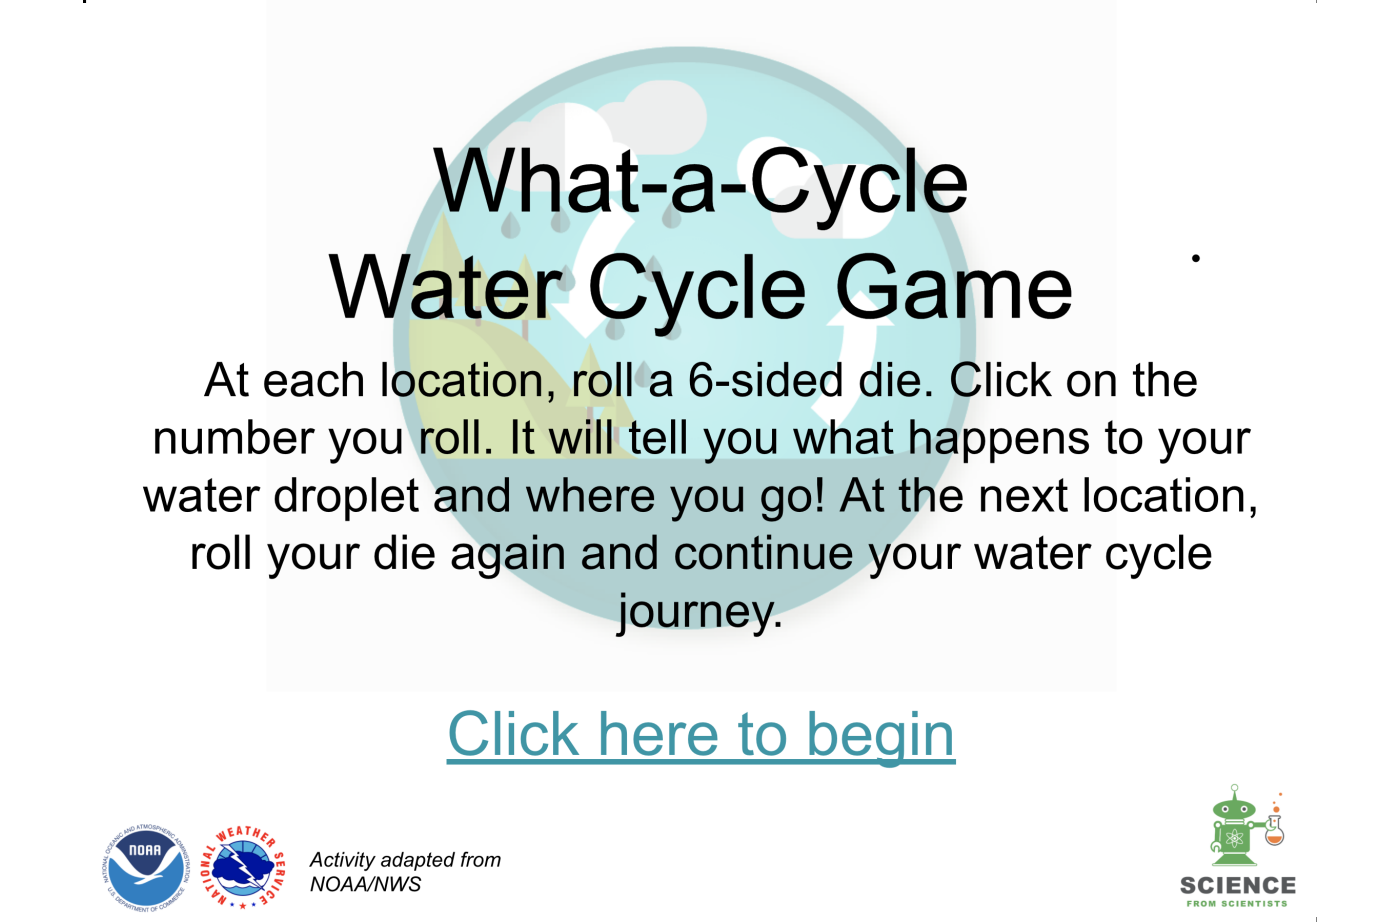
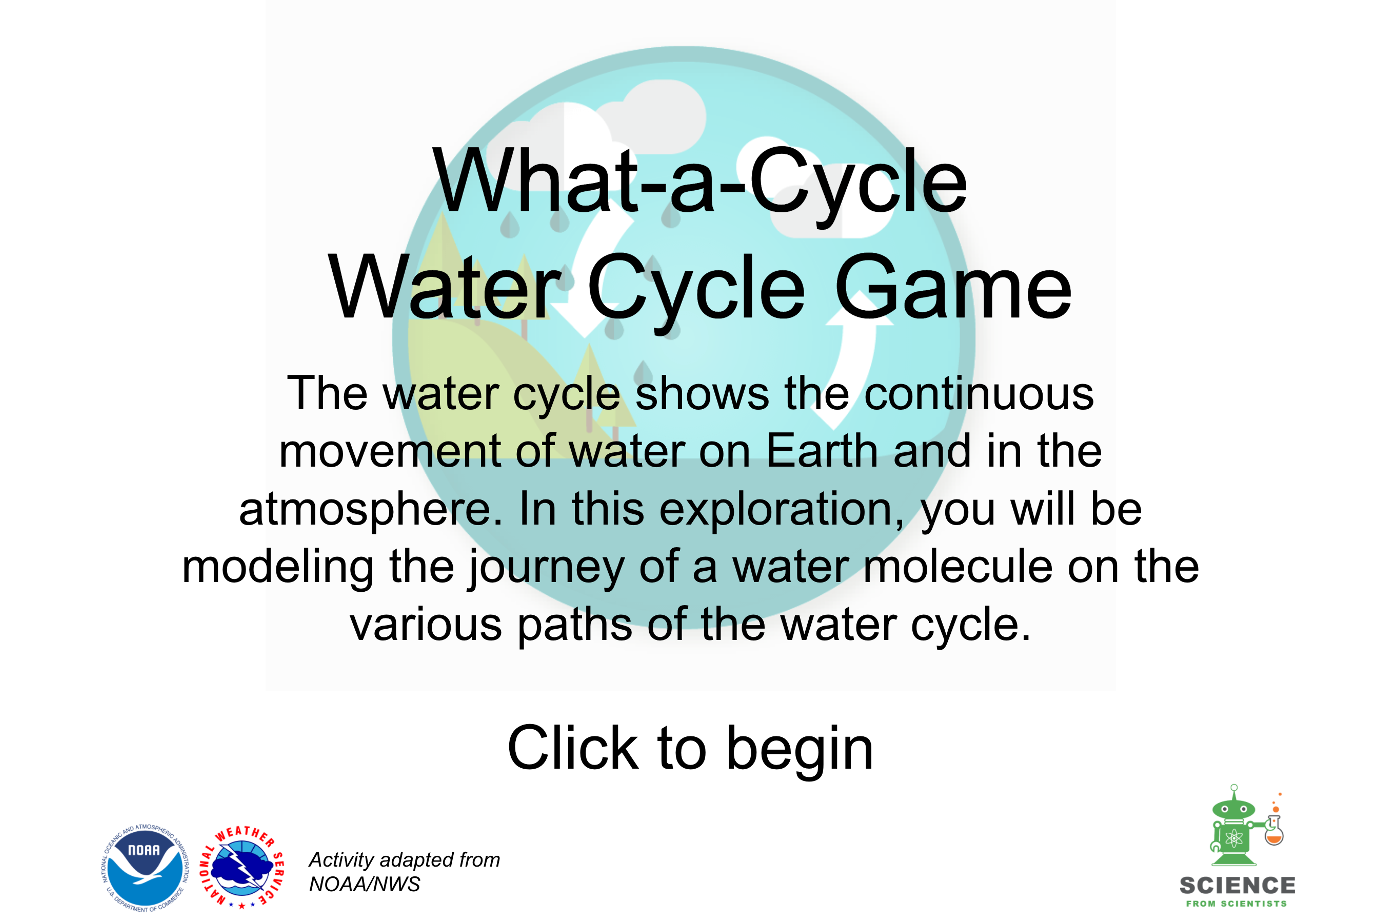
Changing the title slide and adding an intro text box

diff --git a/phaser_game.js b/phaser_game.js
@@ -12,7 +12,8 @@ var config = {
         extend: {
             createInfoBubble: createInfoBubble,
             createDiceBubble: createDiceBubble,
-            clickedDiceBubble: clickedDiceBubble
+            clickedDiceBubble: clickedDiceBubble,
+            createTextBubble: createTextBubble
         }
     }
 };
@@ -101,6 +102,8 @@ function create () {
     this.anims.create(animConfig);
 
     this.createDiceBubble();
+
+    this.createTextBubble(770, 70, 420, 70, 'Click on the die to roll!');
     
     this.title = this.add.image(0, 0, 'title').setOrigin(0);
 
@@ -269,7 +272,7 @@ function drawBubble(x, y, width, height) {
 
 
 function createInfoBubble (quote, image) {
-    const maxWidth = 480, maxHeight = 220;
+    const maxWidth = 420, maxHeight = 220;
     const bubblePadding = 5;
     var bubbleWidth = maxWidth + bubblePadding * 2;
     var bubbleHeight = maxHeight;
@@ -298,7 +301,7 @@ function createInfoBubble (quote, image) {
     }
 
     x = parent.scale.width - bubbleWidth - bubblePadding * 2; // parent.scale.width / 2 - bubbleWidth / 2;
-    y = 340; // parent.scale.height / 2 - bubbleHeight / 2;
+    y = 300; // parent.scale.height / 2 - bubbleHeight / 2;
 
     infoBubble = drawBubble(x, y, bubbleWidth, bubbleHeight)
 
@@ -330,6 +333,12 @@ function createDiceBubble() {
     shape = parent.add.rectangle(turnsX, turnsY, turnsWidth + pad * 2, turnsHeight + diceSize + pad * 2).setOrigin(0,0);
     shape.setInteractive();
     shape.on('pointerdown', clickedDiceBubble);
+}
+
+
+function createTextBubble(x, y, width, height, text) {
+    infoBubble = drawBubble(x, y, width, height);
+    content = parent.add.text(x + 15, y + 15, text, { fontFamily: 'Arial', fontSize: 40, color: '#000000', align: 'center' });
 }
 
 
